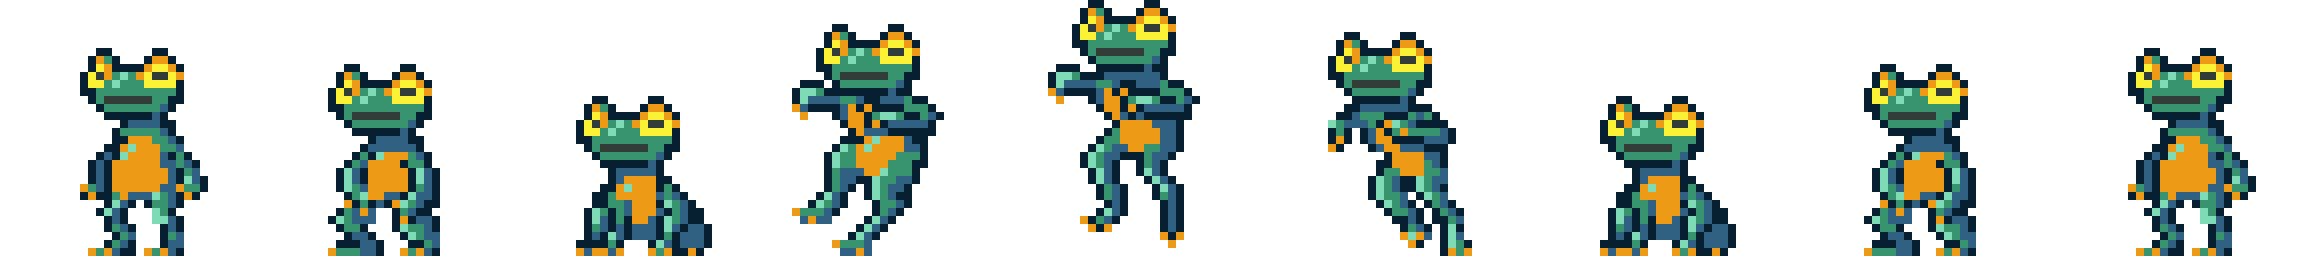
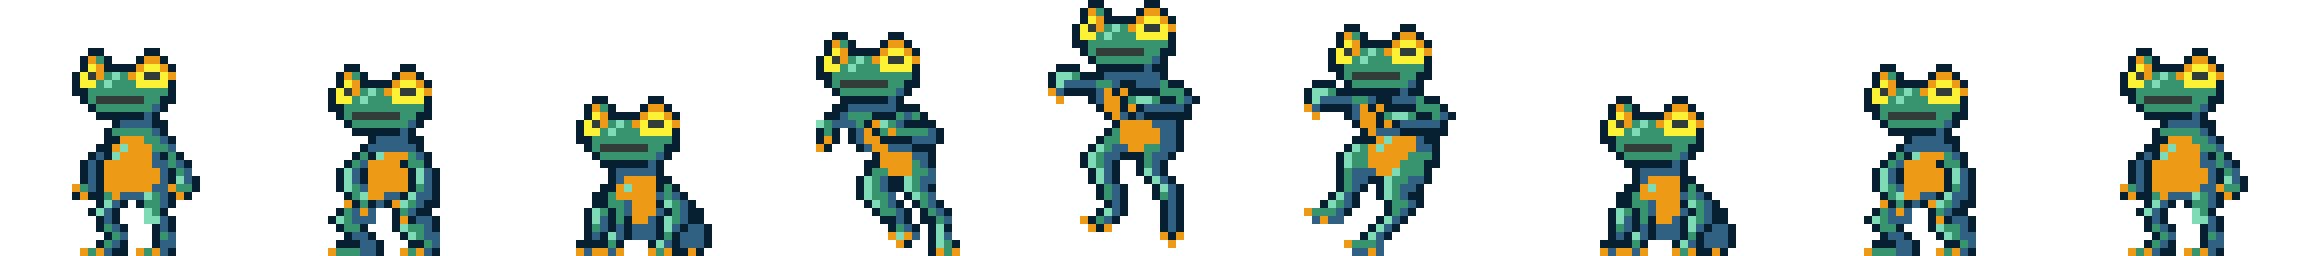
Start fixing frog jump animation

diff --git a/src/gameObjects/player.ts b/src/gameObjects/player.ts
@@ -1,6 +1,6 @@
 import 'phaser'
 import Character from './character'
-import { CharacterConfig, Direction } from '../util'
+import { CharacterConfig, Direction, getRandomInt } from '../util'
 import PlanetScene from '../scenes/planets/planetScene'
 
 export default class Player extends Character {
@@ -61,12 +61,16 @@ export default class Player extends Character {
         this.jumpStrength * multiplier
       )
       this.scene.soundHelper?.playPlayerJumpSound()
+
+      this.updateAnimation()
     } else if (this.canDoubleJump) {
       this.canDoubleJump = false
       ;(<Phaser.Physics.Arcade.Body>this.container.body).setVelocityY(
         this.jumpStrength * multiplier
       )
       this.scene.soundHelper?.playPlayerDoubleJumpSound()
+
+      this.updateAnimation()
     }
   }
 
@@ -90,6 +94,8 @@ export default class Player extends Character {
     }
 
     this.idle = false
+
+    this.updateAnimation()
   }
 
   public stopClimb(planetFrictionModifier: number): void {
@@ -106,6 +112,8 @@ export default class Player extends Character {
     )
 
     this.idle = false
+
+    this.updateAnimation()
   }
 
   public bounce(multiplier: number): void {
@@ -115,12 +123,13 @@ export default class Player extends Character {
     ;(<Phaser.Physics.Arcade.Body>this.container.body).setVelocityY(
       -this.jumpStrength * multiplier * 0.75
     )
+
+    this.updateAnimation()
   }
 
   public updateAnimation(): void {
     if (!this.container || !this.sprite) return
 
-    // TODO: Implement 'jump' and 'fall' animations when we'll have them
     // * Wall cling
     if (this.wallClingDirection !== null) {
       if (this.facingLeft()) {
@@ -137,15 +146,15 @@ export default class Player extends Character {
     ) {
       if ((<Phaser.Physics.Arcade.Body>this.container.body).velocity.y > 0) {
         if (this.facingLeft()) {
-          this.sprite.anims.play(`${this.assetPrefix}_jump_left`, true)
+          this.sprite.anims.play(`${this.assetPrefix}_jump_descend_left`, true)
         } else {
-          this.sprite.anims.play(`${this.assetPrefix}_jump_right`, true)
+          this.sprite.anims.play(`${this.assetPrefix}_jump_descend_right`, true)
         }
       } else {
         if (this.facingLeft()) {
-          this.sprite.anims.play(`${this.assetPrefix}_jump_left`, true)
+          this.sprite.anims.play(`${this.assetPrefix}_jump_ascend_left`, true)
         } else {
-          this.sprite.anims.play(`${this.assetPrefix}_jump_right`, true)
+          this.sprite.anims.play(`${this.assetPrefix}_jump_ascend_right`, true)
         }
       }
     }
@@ -159,11 +168,6 @@ export default class Player extends Character {
       if (this.facingLeft()) {
         this.sprite.anims.play(`${this.assetPrefix}_run_left`, true)
       } else {
-        console.log(
-          Math.floor(
-            (<Phaser.Physics.Arcade.Body>this.container.body).velocity.x
-          )
-        )
         this.sprite.anims.play(`${this.assetPrefix}_run_right`, true)
       }
     }
@@ -238,11 +242,11 @@ export default class Player extends Character {
 
   public wallJump(multiplier: number): void {
     if (!this.container) return
-
-    this.stopWallCling()
     ;(<Phaser.Physics.Arcade.Body>this.container.body).setVelocityY(
       this.jumpStrength * multiplier
     )
+
+    this.stopWallCling()
 
     this.scene.soundHelper?.playPlayerWallJumpSound()
   }
@@ -255,6 +259,8 @@ export default class Player extends Character {
     this.canDoubleJump = true
     ;(<Phaser.Physics.Arcade.Body>this.container.body).setAllowGravity(true)
     ;(<Phaser.Physics.Arcade.Body>this.container.body).setDragY(0)
+
+    this.updateAnimation()
   }
 
   protected makeInvulnerable(): void {

diff --git a/src/providers/characterConfigProvider.ts b/src/providers/characterConfigProvider.ts
@@ -39,20 +39,32 @@ export default abstract class CharacterConfigProvider {
           repeat: -1
         },
         {
-          key: 'frog_jump_left',
+          key: 'frog_jump_ascend_left',
           assetKey: 'frog_jump_left_anim',
-          frameStart: 0,
-          frameEnd: 8,
-          frameRate: 10,
-          repeat: -1
+          frameStart: 1,
+          frameEnd: 3,
+          frameRate: 20
         },
         {
-          key: 'frog_jump_right',
+          key: 'frog_jump_ascend_right',
           assetKey: 'frog_jump_right_anim',
-          frameStart: 0,
-          frameEnd: 8,
-          frameRate: 10,
-          repeat: -1
+          frameStart: 1,
+          frameEnd: 3,
+          frameRate: 20
+        },
+        {
+          key: 'frog_jump_descend_left',
+          assetKey: 'frog_jump_left_anim',
+          frameStart: 4,
+          frameEnd: 5,
+          frameRate: 10
+        },
+        {
+          key: 'frog_jump_descend_right',
+          assetKey: 'frog_jump_right_anim',
+          frameStart: 4,
+          frameEnd: 5,
+          frameRate: 10
         }
       ],
       hitAreaWidth: 28,

diff --git a/src/gameObjects/character.ts b/src/gameObjects/character.ts
@@ -121,19 +121,18 @@ export default abstract class Character {
     }
 
     this.idle = false
+
+    this.updateAnimation()
   }
 
   public stop(planetFrictionModifier: number): void {
     if (!this.container) return
+    ;(<Phaser.Physics.Arcade.Body>this.container.body).setDragX(
+      planetFrictionModifier
+    )
 
-    if (!this.isGrounded()) {
-      ;(<Phaser.Physics.Arcade.Body>this.container.body).setDragX(
-        planetFrictionModifier
-      )
-    } else {
-      ;(<Phaser.Physics.Arcade.Body>this.container.body).setDragX(
-        planetFrictionModifier
-      )
+    if (this.isGrounded()) {
+      this.updateAnimation()
     }
 
     this.idle = true

diff --git a/src/scenes/planets/planetScene.ts b/src/scenes/planets/planetScene.ts
@@ -100,7 +100,7 @@ export default abstract class PlanetScene extends Phaser.Scene {
       this.planetFrictionModifier,
       this.platformGroup
     )
-    this.player.updateAnimation()
+
     this.enemies
       .filter((enemy) => enemy.constructor.name === 'FlyingEnemy')
       .forEach((enemy) => {

diff --git a/src/gameObjects/flyingEnemy.ts b/src/gameObjects/flyingEnemy.ts
@@ -56,6 +56,7 @@ export default class FlyingEnemy extends Enemy {
       ;(<Phaser.Physics.Arcade.Body>this.getContainer().body).setVelocityX(0)
       ;(<Phaser.Physics.Arcade.Body>this.getContainer().body).setVelocityY(0)
     }
+
     this.updateAnimation()
   }
 }

diff --git a/src/factories/enemyFactory.ts b/src/factories/enemyFactory.ts
@@ -103,6 +103,5 @@ export default abstract class EnemyFactory {
     } else {
       enemy.run(scene.velocityXModifier)
     }
-    enemy.updateAnimation()
   }
 }
